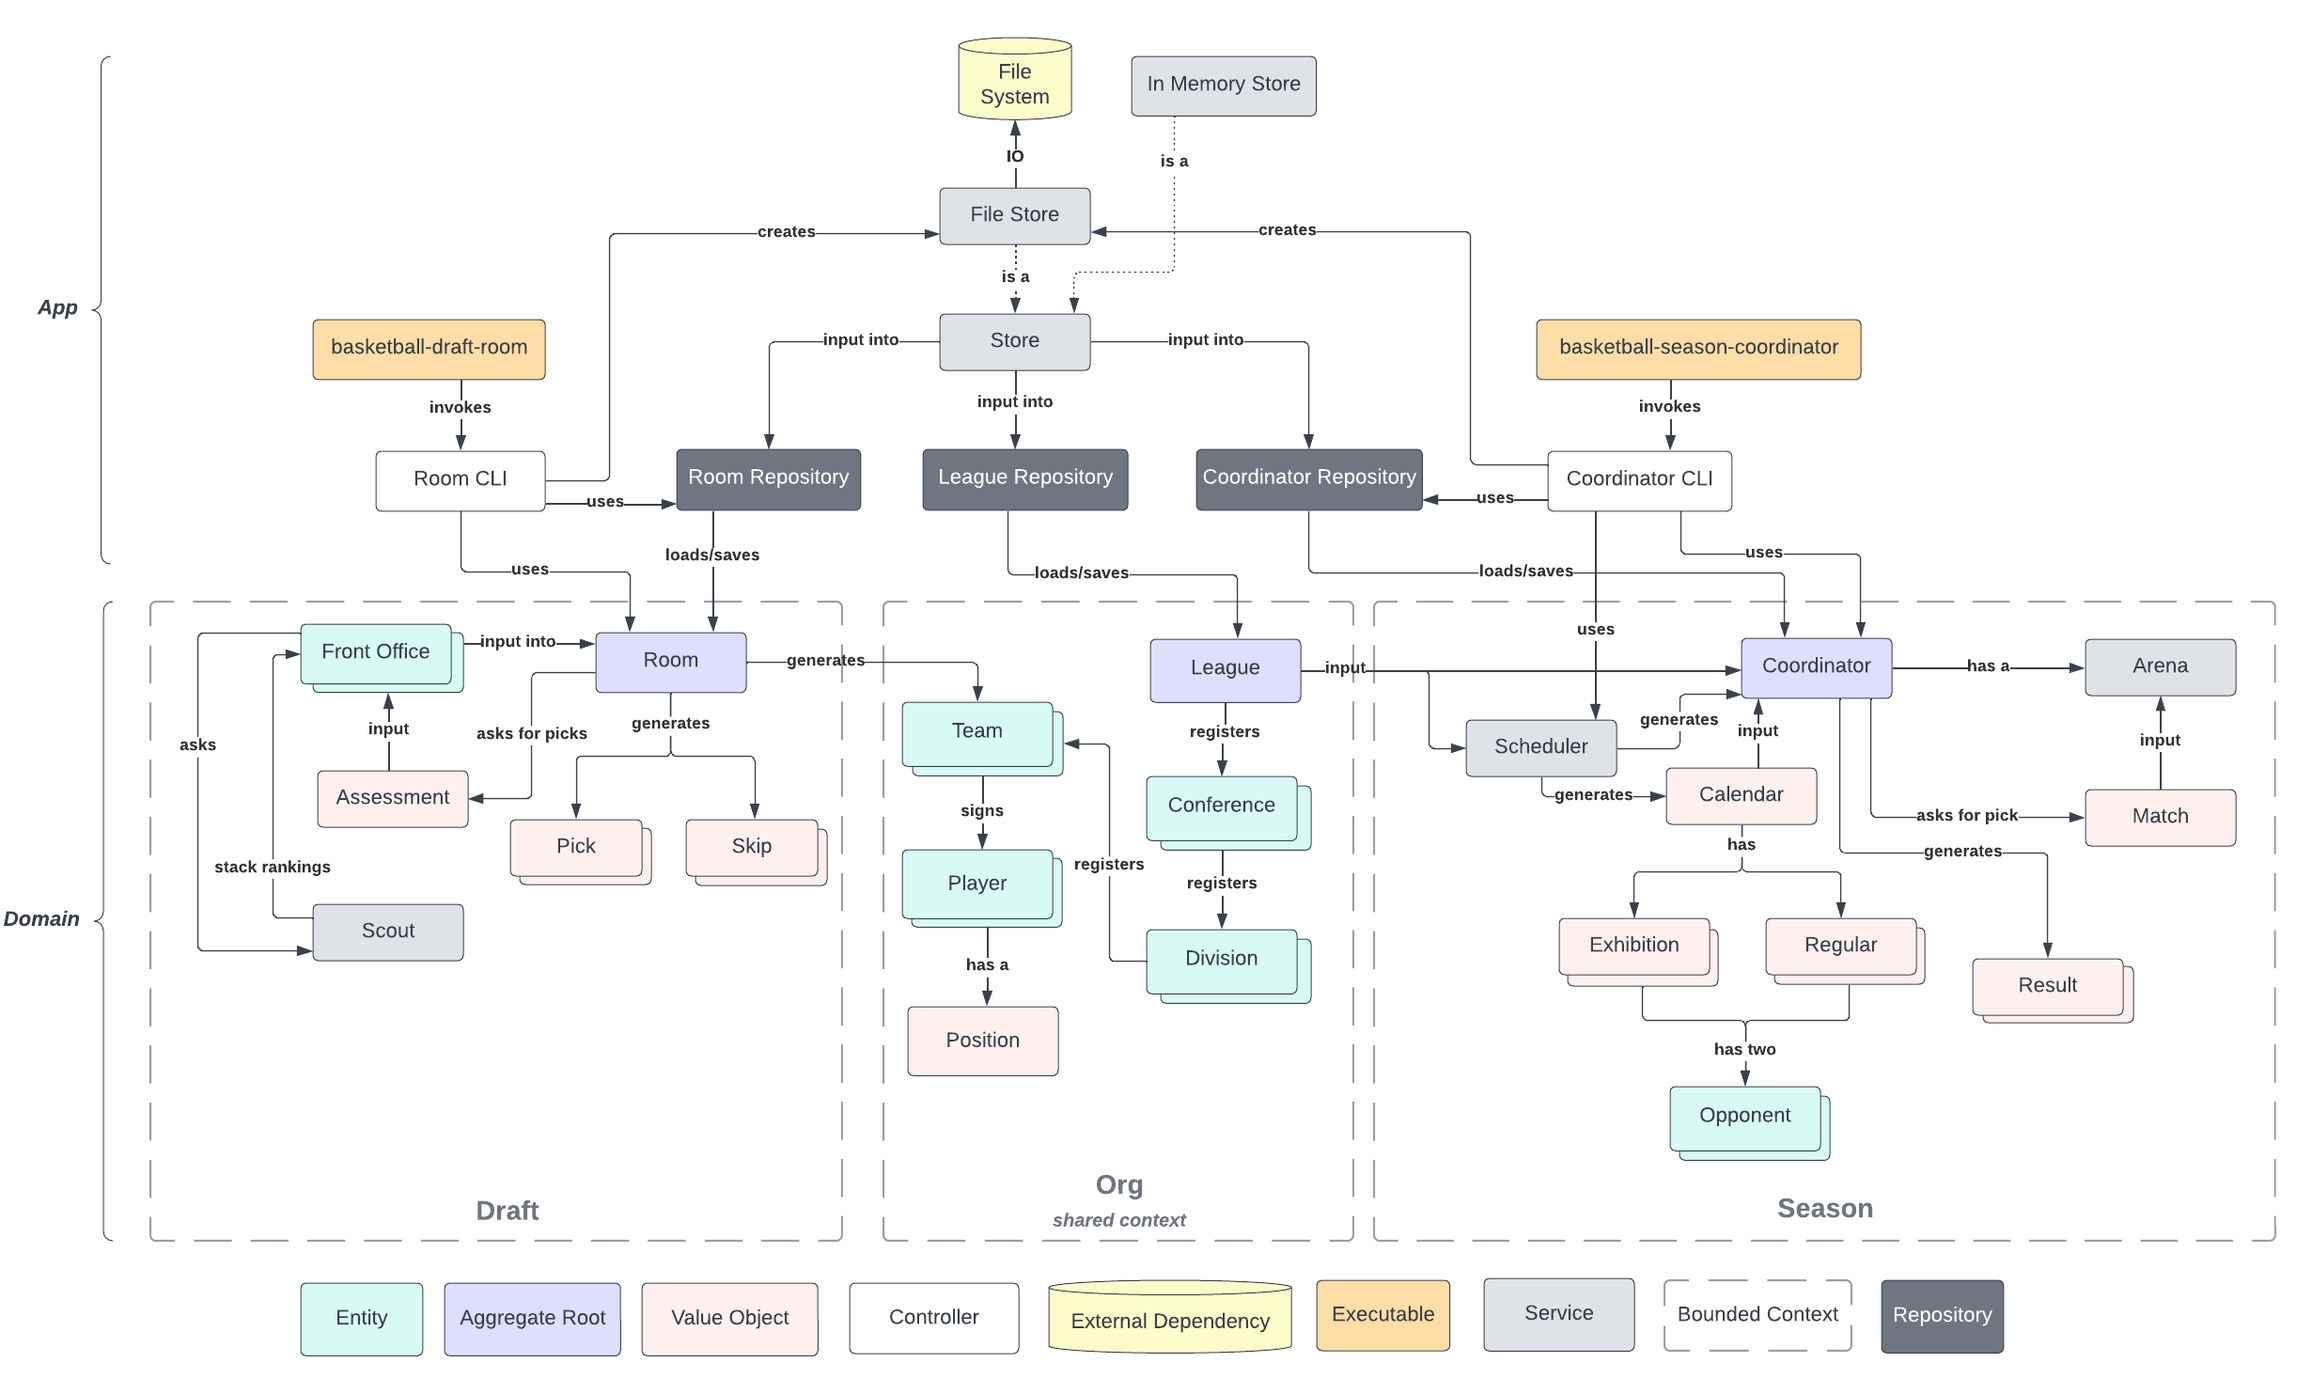
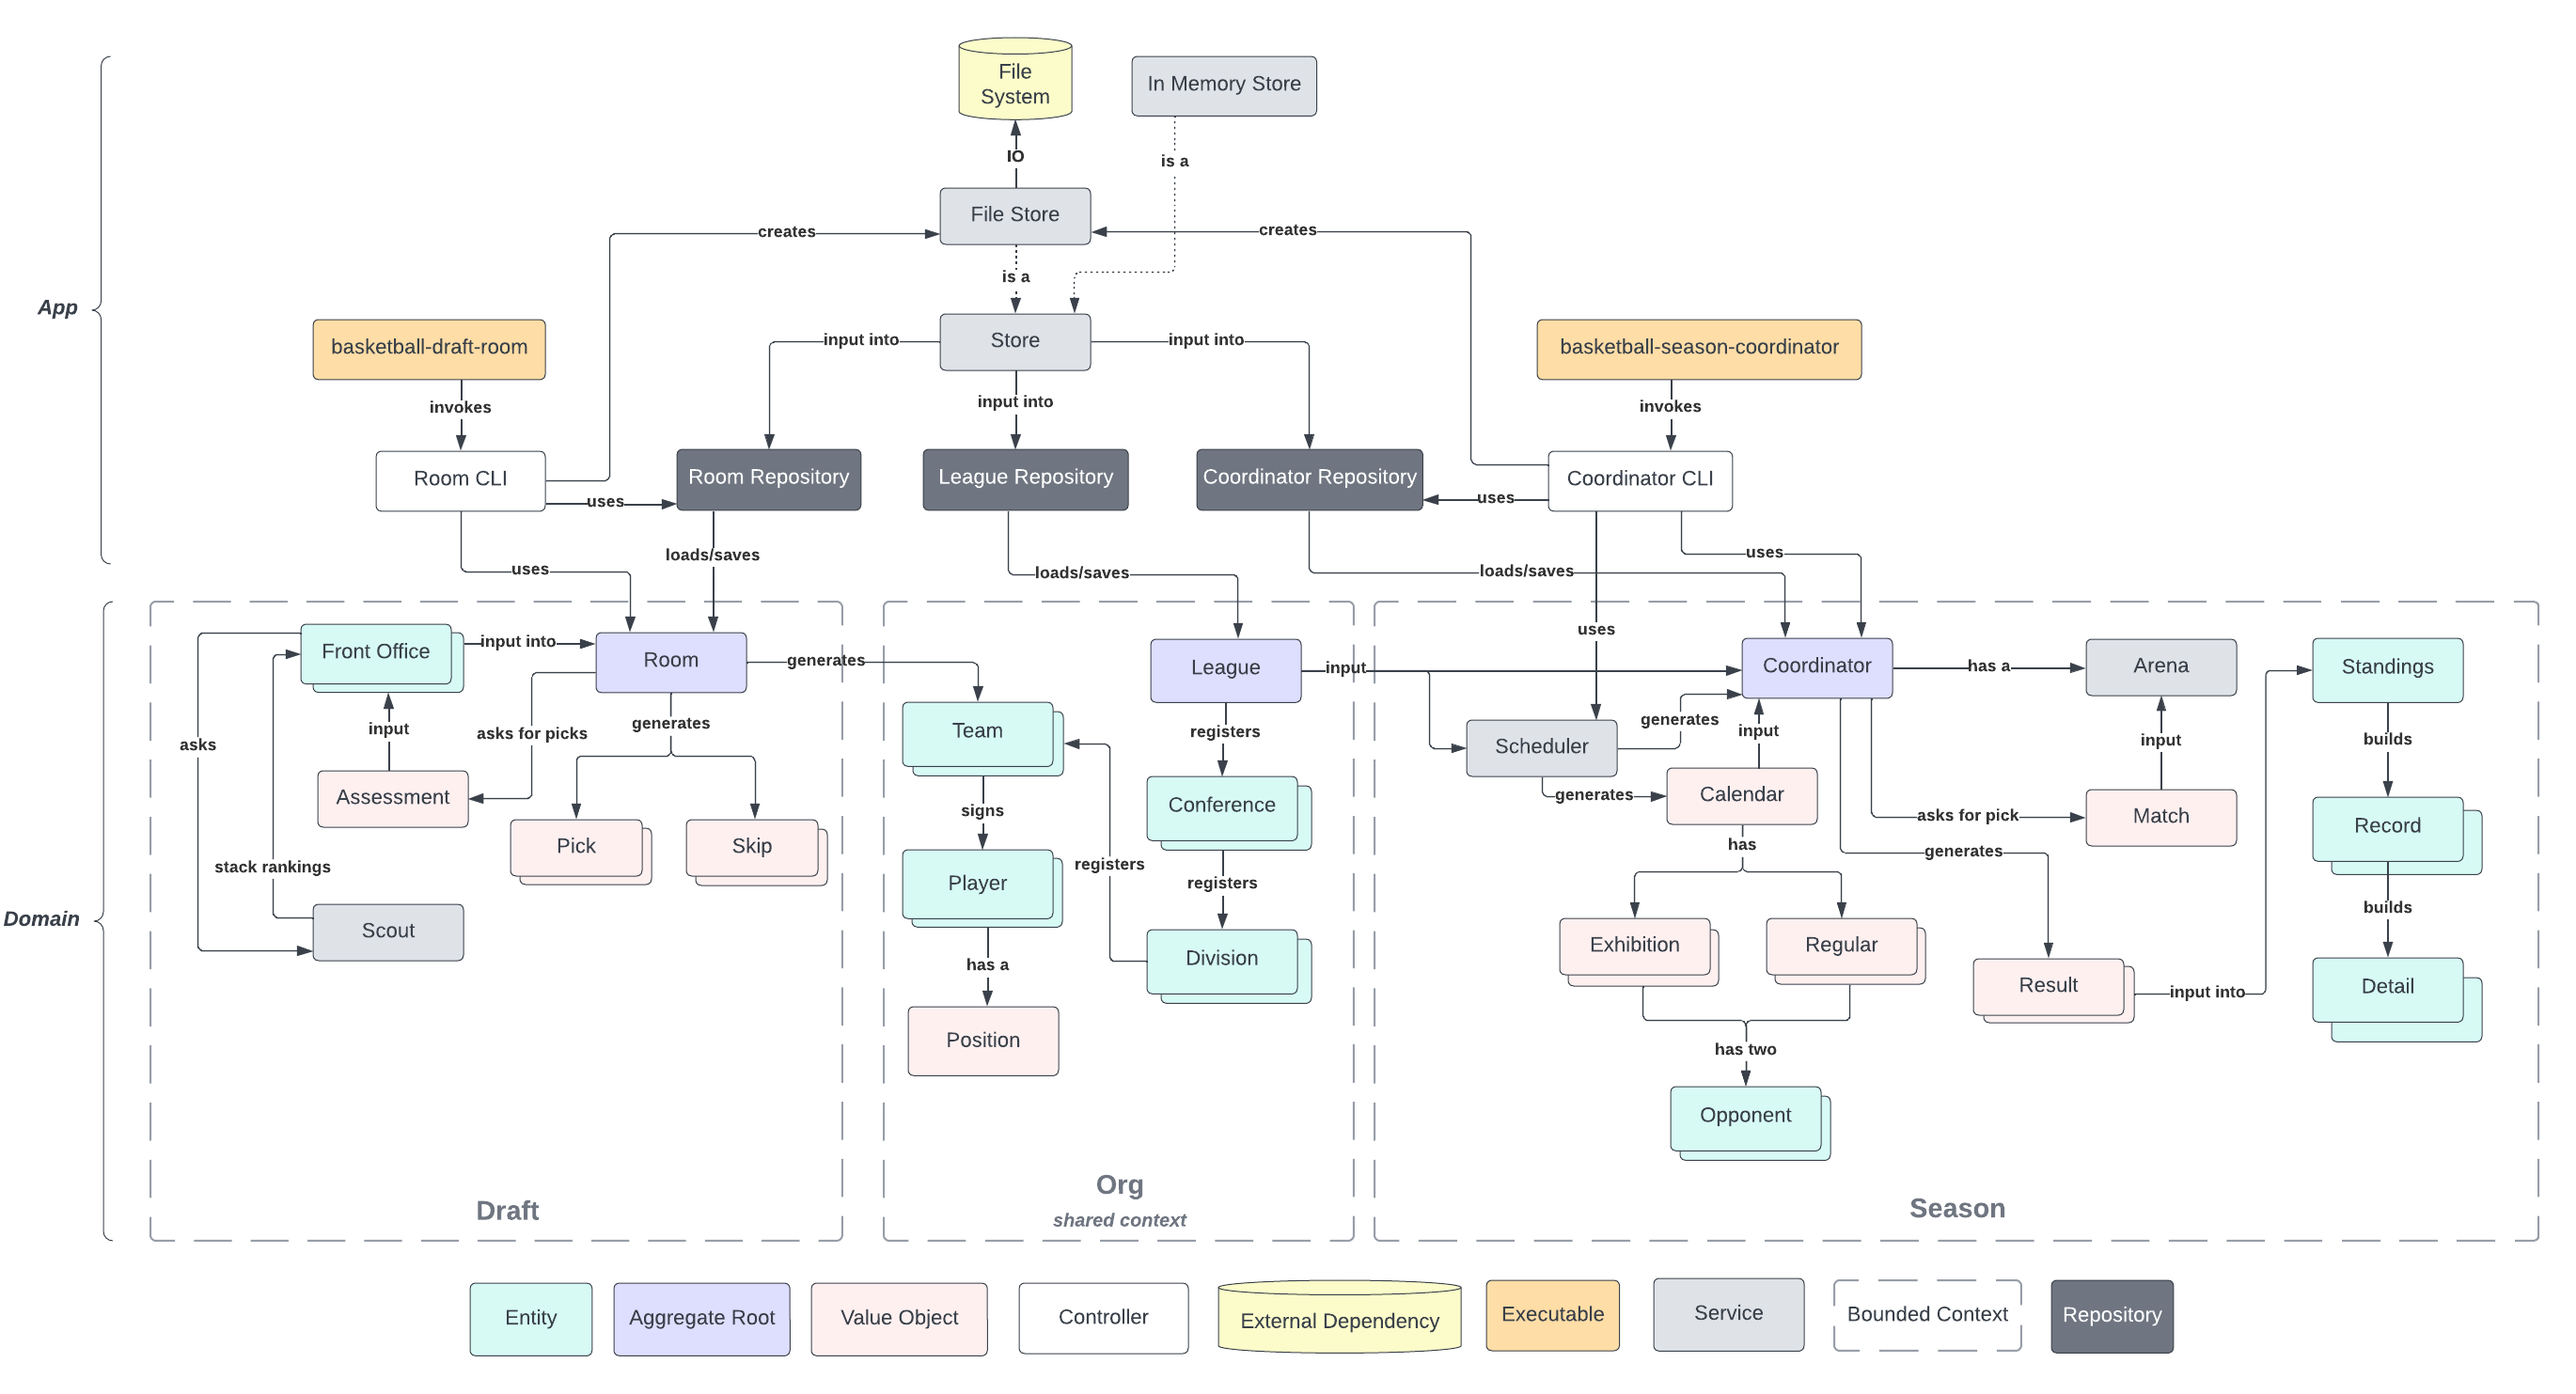
Updating docs

diff --git a/README.md b/README.md
@@ -19,6 +19,7 @@ Element      | Description
 **Coordinator CLI** | Underlying Ruby class that powers the `basketball-season-coordinator` script. Basically a terminal wrapper over the Coordinator object.
 **Coordinator Repository** | Understands how to save and load Coordinator objects from JSON files on disk.
 **Coordinator** | Object which can take a League, Calendar, Games, and an Arena and provide an iterable interface to enumerate through days and simulate games as results.
+**Detail** | Re-representation of a Result object but from a specific team's perspective.
 **Division** | A collection of teams.
 **Draft** | Bounded context (sub-module) dealing with running a round-robin player draft for teams.
 **Exhibition** | Pre-season game which has no impact to team record.
@@ -33,15 +34,17 @@ Element      | Description
 **Org** | Bounded context (sub-module) dealing with overall organizational structure of a sports assocation.
 **Pick** | Result event emitted when a player is automatically or manually selected.
 **Player** | Identitiable as a person able to be drafted.  Meant to be subclassed and extended to include more intricate descriptions of a specific sport player, such as abilities, ratings, and statistics.  Right now it has none of these types of traits and it meant to only serve as the base with only an overall attribute.
+**Record** | Represents a team's overall record.
 **Regular** | Game that counts towards regular season record.
 **Result** | The outcome of a game (typically with a home and away score).
 **Room CLI** | Underlying Ruby class that powers the `basketball-draft-room` script. Basically a terminal wrapper for the Room object.
 **Room Repository** | Understands how to save and load Room objects from JSON files on disk.
 **Room** | Main object responsible for providing an iterable interface capable of executing a draft, pick by pick.
+**Scheduler** | Knows how to take a League and a year and generate a game-populated calendar.
 **Scout** | Knows how to stack rank lists of players.
 **Season** | Bounded context (sub-module) dealing with calendar and matchup generation.
-**Scheduler** | Knows how to take a League and a year and generate a game-populated calendar.
 **Skip** | Result event emitted when a front office decides to skip a round.
+**Standings** | Synthesizes teams and results into team standings with win/loss records and more.
 **Store** | Interface for the underlying Repository persistence layer.  While a Document Repository is mainly responsible for serialization/de-serialization, the store actually knows how to read/write the data.
 **Team Group** | Set of rosters that together form a cohesive league.
 **Team** | Member of a league and signs players.  Has games assigned and played.
